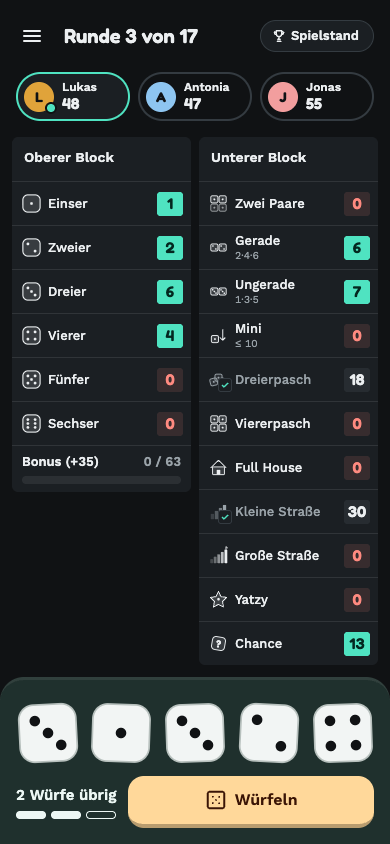
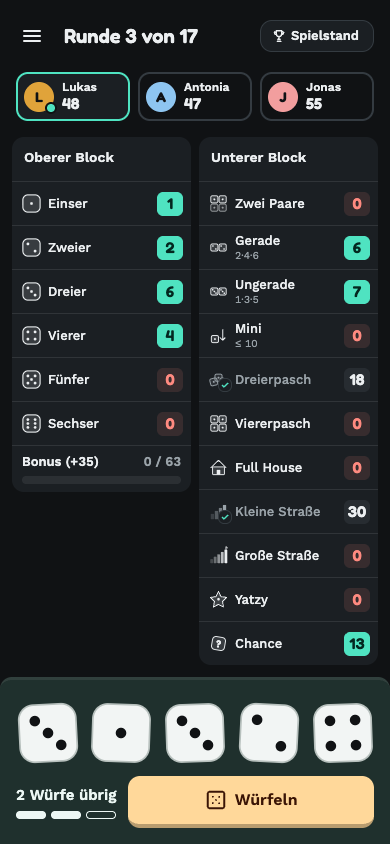
fix: unify playing screen corner shapes

diff --git a/src/features/game/components/PlayingScoreRow.tsx b/src/features/game/components/PlayingScoreRow.tsx
@@ -1,6 +1,6 @@
 import { Pressable, StyleSheet, View, useWindowDimensions } from 'react-native';
 
-import { alpha, Font, fontFamily, Icon, IconName, SIZE, Text, useTheme } from '@/ui';
+import { alpha, Font, fontFamily, Icon, IconName, RADIUS, SIZE, Text, useTheme } from '@/ui';
 import type { ColorToken } from '@/ui';
 
 import { CellState } from '../view';
@@ -122,17 +122,17 @@ const styles = StyleSheet.create({
     right: -2,
     width: 14,
     height: 14,
-    borderRadius: 3,
+    borderRadius: RADIUS.chip / 2,
     borderWidth: StyleSheet.hairlineWidth,
     alignItems: 'center',
     justifyContent: 'center',
   },
-  selection: { borderWidth: 2, borderRadius: 3 },
+  selection: { borderWidth: 2, borderRadius: RADIUS.chip / 2 },
   label: { flex: 1, minWidth: 0 },
   value: {
     minWidth: 26,
     height: 24,
-    borderRadius: 3,
+    borderRadius: RADIUS.chip / 2,
     paddingHorizontal: 3,
     alignItems: 'center',
     justifyContent: 'center',

diff --git a/src/features/game/components/ActionBar.tsx b/src/features/game/components/ActionBar.tsx
@@ -9,6 +9,7 @@ import {
   DieFace,
   FIXED,
   IconName,
+  RADIUS,
   Text,
   TextVariant,
   useTheme,
@@ -154,8 +155,8 @@ export function ActionBar({
 
 const styles = StyleSheet.create({
   bar: {
-    borderTopLeftRadius: 24,
-    borderTopRightRadius: 24,
+    borderTopLeftRadius: RADIUS.chip,
+    borderTopRightRadius: RADIUS.chip,
     paddingTop: 12,
     paddingHorizontal: BAR_PADDING,
     gap: 10,
@@ -173,7 +174,7 @@ const styles = StyleSheet.create({
     paddingHorizontal: 6.5,
     marginHorizontal: -8,
     marginBottom: -6,
-    borderRadius: 18,
+    borderRadius: RADIUS.chip,
     borderWidth: 1.5,
     borderColor: 'transparent',
   },
@@ -188,7 +189,7 @@ const styles = StyleSheet.create({
     minHeight: 48,
   },
   selection: { flexShrink: 1, gap: 4 },
-  rollButton: { flex: 1, paddingHorizontal: 28 },
+  rollButton: { flex: 1, paddingHorizontal: 28, borderRadius: RADIUS.chip },
   waiting: {
     flex: 1,
     minHeight: 48,

diff --git a/src/features/game/components/PlayerPills.tsx b/src/features/game/components/PlayerPills.tsx
@@ -2,7 +2,7 @@ import { useTranslation } from 'react-i18next';
 import { Pressable, StyleSheet, View } from 'react-native';
 import type { ViewStyle } from 'react-native';
 
-import { Avatar, Font, Tag, Text, alpha, fontFamily, useTheme } from '@/ui';
+import { Avatar, Font, RADIUS, Tag, Text, alpha, fontFamily, useTheme } from '@/ui';
 import type { Palette } from '@/ui';
 
 import type { PillView } from '../view';
@@ -129,7 +129,7 @@ const styles = StyleSheet.create({
     paddingVertical: 6,
     paddingLeft: 6,
     paddingRight: 10,
-    borderRadius: 999,
+    borderRadius: RADIUS.chip,
     borderWidth: 2,
   },
   text: { flex: 1, minWidth: 0 },
@@ -152,7 +152,6 @@ const styles = StyleSheet.create({
     paddingVertical: 6,
     paddingLeft: 2,
     paddingRight: 2,
-    borderRadius: 16,
   },
   compactText: { flexGrow: 0, flexShrink: 0, flexBasis: 'auto', alignSelf: 'stretch' },
 });

diff --git a/src/features/game/components/Scorecard.tsx b/src/features/game/components/Scorecard.tsx
@@ -1,7 +1,7 @@
 import { useTranslation } from 'react-i18next';
 import { StyleSheet, View } from 'react-native';
 
-import { SIZE, Text, useTheme } from '@/ui';
+import { RADIUS, SIZE, Text, useTheme } from '@/ui';
 
 import type { CellView, SheetView } from '../view';
 import { BonusProgress } from './BonusProgress';
@@ -79,6 +79,6 @@ const styles = StyleSheet.create({
   blockTitle: { paddingHorizontal: 4, paddingVertical: 2, letterSpacing: 0.5 },
   playingCard: { flex: 0, gap: 8, width: '100%', maxWidth: 560, alignSelf: 'center' },
   playingColumns: { flex: 0, alignItems: 'flex-start' },
-  playingColumn: { gap: 0, minWidth: 0, borderRadius: 6, overflow: 'hidden' },
+  playingColumn: { gap: 0, minWidth: 0, borderRadius: RADIUS.chip, overflow: 'hidden' },
   playingTitle: { minHeight: SIZE.touch, paddingHorizontal: 12, paddingVertical: 12 },
 });

diff --git a/src/ui/Chip.tsx b/src/ui/Chip.tsx
@@ -3,6 +3,7 @@ import { Pressable } from 'react-native';
 import { Icon } from './icons/Icon';
 import type { IconName } from './icons/Icon';
 import { Text } from './Text';
+import { RADIUS } from './theme/tokens';
 import { useTheme } from './theme/ThemeProvider';
 
 type ChipProps = {
@@ -32,7 +33,7 @@ export function Chip({ label, onPress, leading, trailing }: ChipProps) {
         paddingLeft: leading ? 10 : 14,
         paddingRight: trailing ? 10 : 14,
         height: 32,
-        borderRadius: 16,
+        borderRadius: RADIUS.chip,
         borderWidth: 1,
         backgroundColor: colors.surface,
         borderColor: colors.line,
